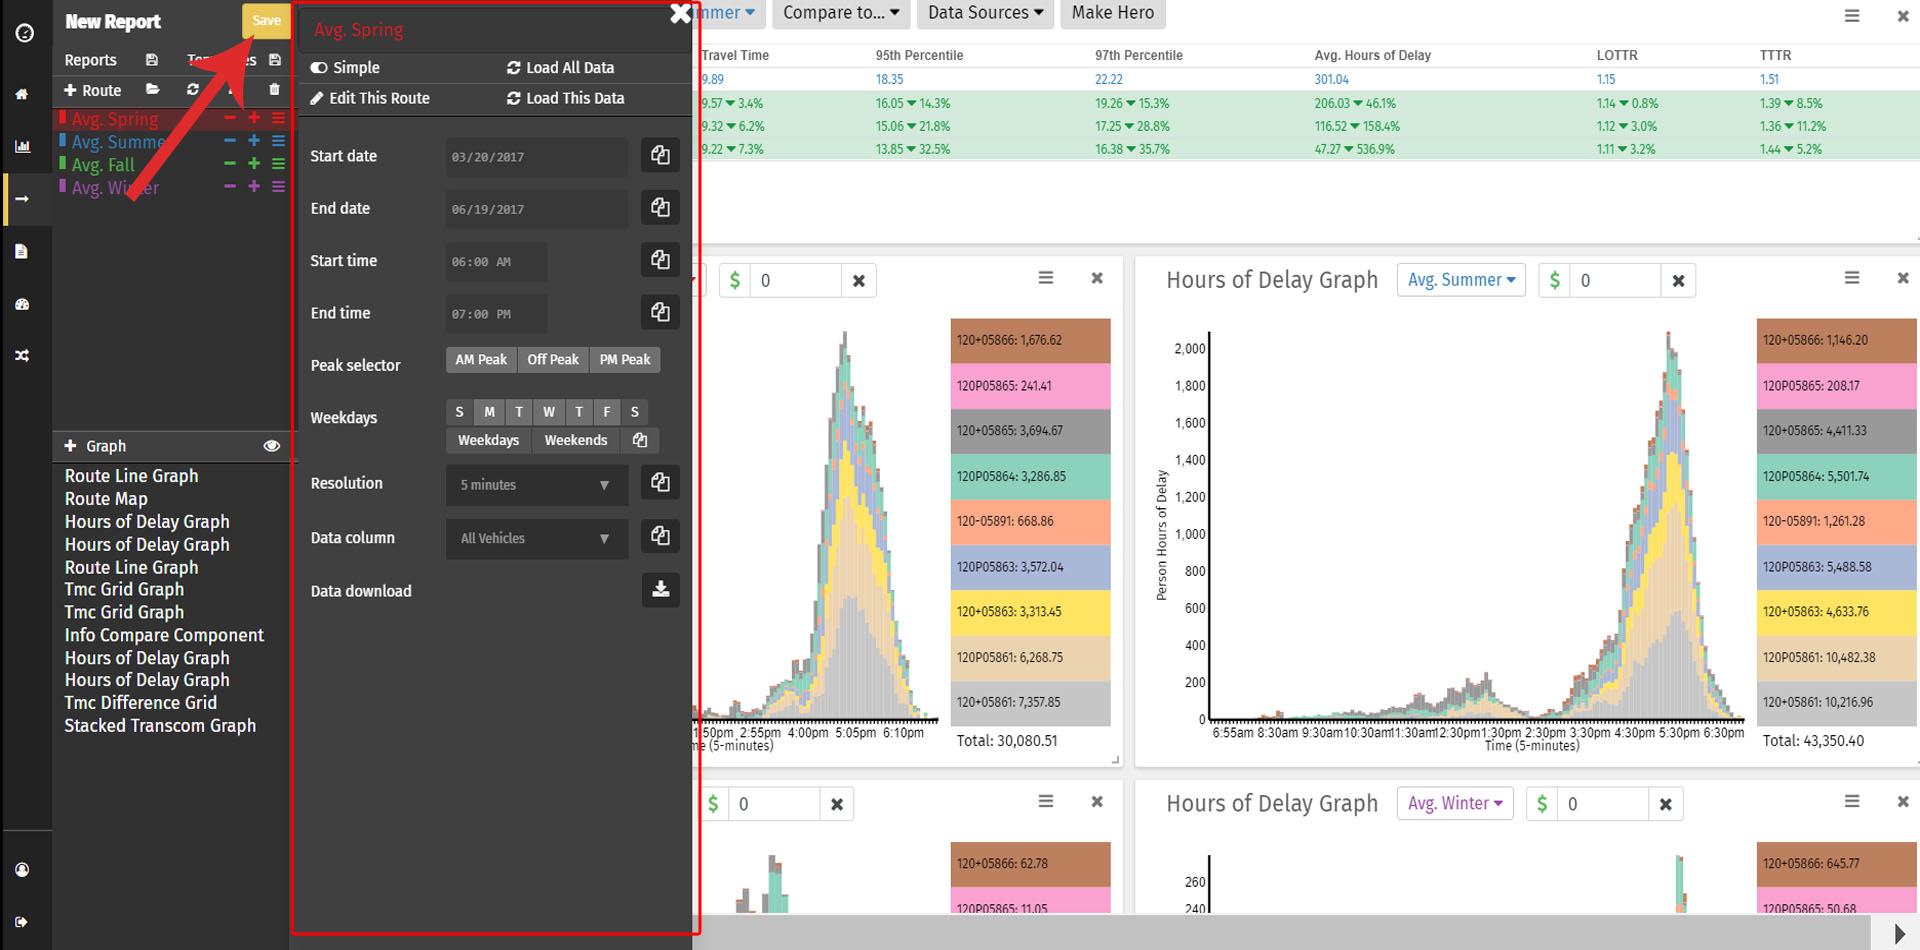
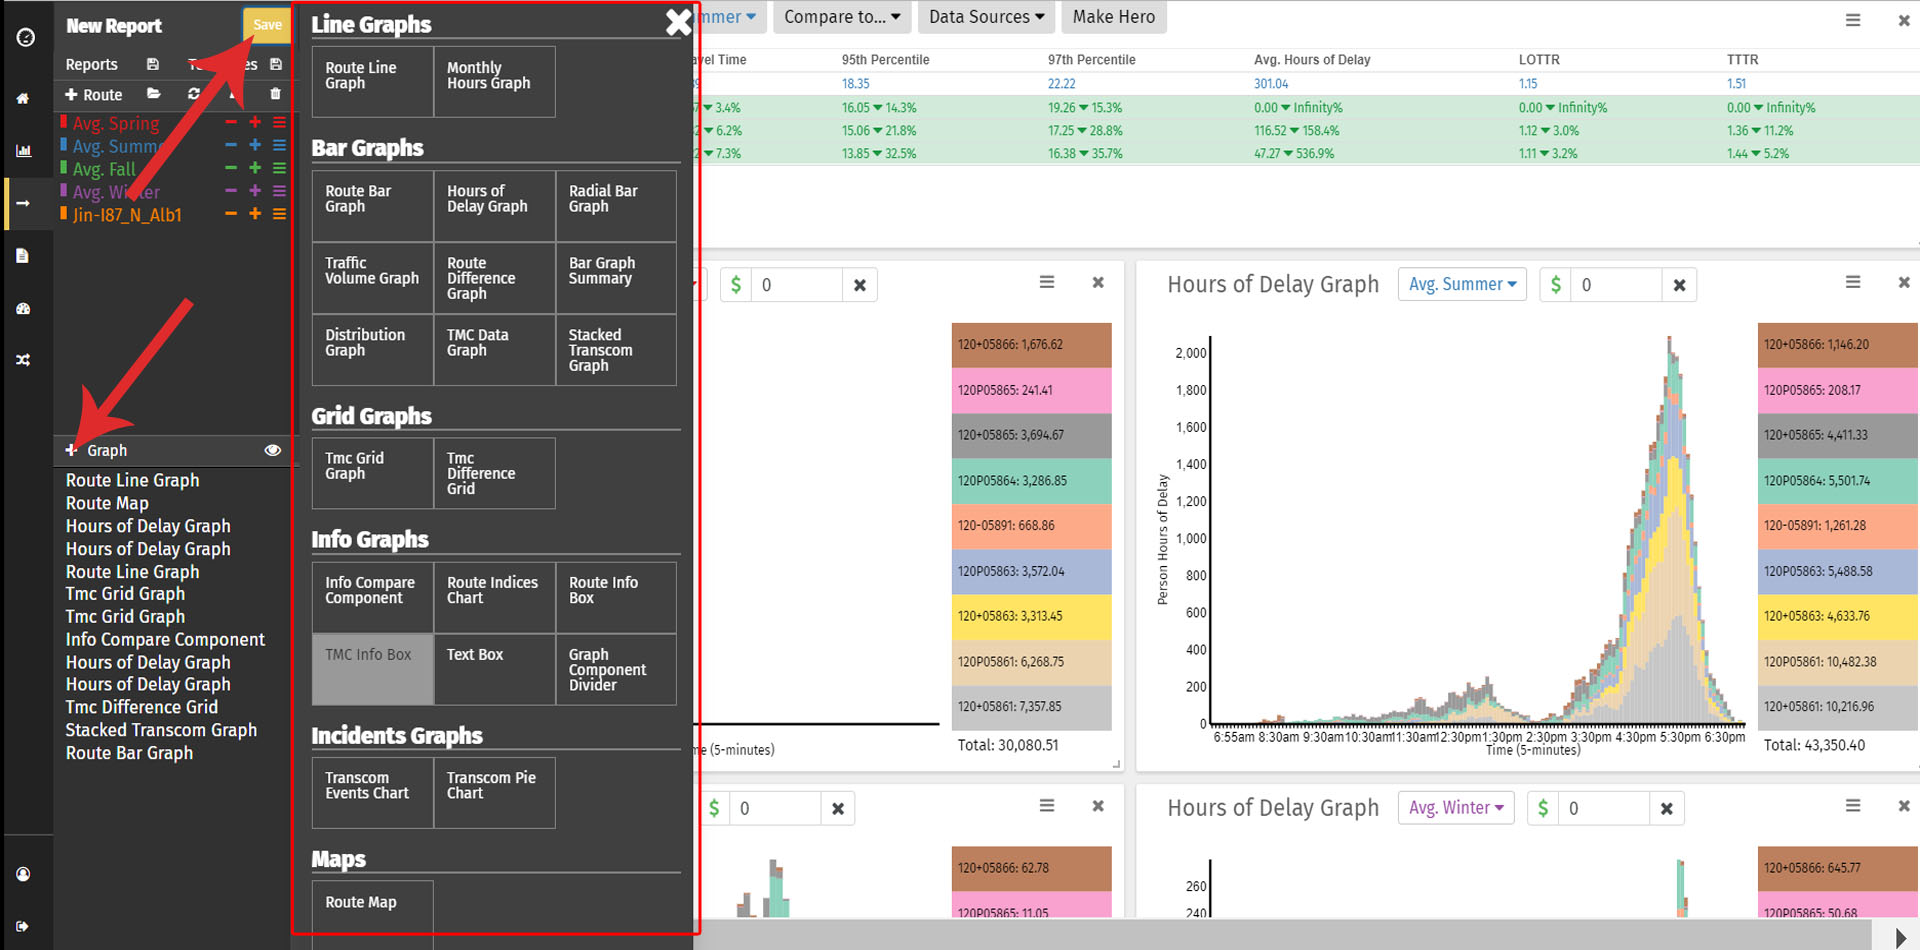
'jin_edit_guick_start_guide'

diff --git a/site/content/step/g7_s3.md b/site/content/step/g7_s3.md
@@ -17,12 +17,12 @@ Click on a Route Componenet in the left navigation menu to view the data paramet
 
 #### Image 2: Customize data/time and resolution 
  
-The “Advanced” tools (red box) for data parameters settings include detailed parameter settings for looking at almost any date/time bounds and time resolution. Choose different date by typing in or usinng calander in Start/End date, you can pick different Start/End time using Peak selectors. You can also choose weekdays or weekendns, resolutions of 5-min, 15-min, hour, day, weekday, month, and year, and Trucks, Passenger Vehicles, and All Vehicles. Lastly, you can download raw data from data datadownlad.
+The “Advanced” (red box) data parameters settings include detailed parameter settings for almost any date/time bounds and time resolution. Choose a different date by typing (or usinng calander) in Start/End date, picking a different Start/End time by using Peak selectors. You can also choose weekdays or weekendns, resolutions of 5-min, 15-min, hour, day, weekday, month, and year, and Trucks, Passenger Vehicles, and All Vehicles. Lastly, you can download raw data from data datadownload button.
 
-You can also copy and paste your route as a new layer by clicking + sign (red arrow) in a route layer. In this new layer you can open advanced tools again and change data parementers into different date/time for comparension into other time frame. For instance, average of each season vs average of a full year.
+You can also copy and paste your route as a new layer by clicking + sign (red arrow) in a route layer. In this new layer you can open advanced tools again and change data parementers to compare it into other time frame. For instance, average of each season vs average of a full year.
 
 
 #### Image 3: Add more graphs and save it to New Report
- Under + Graph, all graphs used for the template are listed. Click + Graph button (red arrow) and you can get Graphs tools window (red box). This will show all available Graphs aligned by Line Graphs, Bar Graphs, Grid Graphs, Info Graphs, Incidents Graphs, and Maps and you can add as many as graph tools into the current template by clicking each graph name. You can delete each graph by clicking x mark on right top on each graph.  Lastly, you can save your curstermiazed verion of template into your new report by clicking save button (red arrow) and put name and description of your report. Later you can find it from report section of NPMRDS. 
+ Under + Graph, all graphs used for the template are listed. Click + Graph button (red arrow) and you can get Graphs tools window (red box). This will show all available Graphs aligned by Line Graphs, Bar Graphs, Grid Graphs, Info Graphs, Incidents Graphs, and Maps and you can add as many as graph tools into the current template by clicking each graph name. You can delete each graph by clicking x mark on top right of each graph.  Lastly, you can save your curstermized verion of template into your new report by clicking save button (red arrow) and put a name and a description of your report. You can find your report from report section of NPMRDS's main menu. 
 
  If you want to learn more indepth for Data Parameter setting, click [**here**](https://npmrds.availabs.org/g/guide/data-params/) to see "Route Component Data Parameters Guide."

diff --git a/site/content/step/g7_s1.md b/site/content/step/g7_s1.md
@@ -14,10 +14,10 @@ image3: img/blog/quick-guide-1c.jpg
 Click Create A Custom Route button from Dashboard (Home) to open Route Creation Controls. 
 
 #### Image 2: Design Your Custom Route
- In Route Creation Controls, zoom in into the your road of interests and place two pins (start and end pin) using ctrl+left-click of your mouse. If road are two ways ( e.g. interstate highway), be careful on putting start and end pin following right direction of the road. You can also place additional pins customizing complex corridors. 
+ In Route Creation Controls, zoom in into the area where you can find your road of interests and place two pins (start and end pin) using ctrl+left-click of your mouse. If road are two ways ( e.g. interstate highway), be careful on putting start and end pin following right direction of the road. You can also place additional pins customizing complex corridors. 
  The TMC list on left menu allows you to view which TMCs are contained in your route. You can highlight the TMCs on the map by scrolling over the TMCs in the table, and remove TMCs by clicking on them in the table.
 
 #### Image 3: Name Your Route and Save
-Put down a name for your route and click Save Route button. It will pop up a message window of your successful saving and providing a button for the route comparison visualization tools. Click “Load RouteComponent” will lead you to the new window with the RouteComponent Template.
+Put down a name for your route and click Save Route button. A window will pop up with a message of successful saving and also provide a button for the route comparison visualization tools. Click “Load RouteComponent” will lead you to the new window with the RouteComponent Template.
 
 More indepth study for creating route, click [**here**](https://npmrds.availabs.org/g/guide/create-route/) to see "Create Route Guide."

diff --git a/site/content/step/g7_s2.md b/site/content/step/g7_s2.md
@@ -14,9 +14,9 @@ image3: img/blog/quick-guide-2c.jpg
 Click Template button from one of top left menu (red arrow) to open Full list of Templates. 
 
 #### Image 2: Choose a Template
- Template drop down button will list up all available templates from npmrds. If you place your cursor on each template's name, details description of each template will pop up as well. Choose a template of your choice by click a template name. 
+ Template drop down button will list up all available templates from npmrds. If you place your cursor on each template's name, a simple description of each template will pop up as well. Choose a template of your choice by click a template name. 
 
 #### Image 3: Navigate your Template
-Navigate each graph tools using browser's scroll bar and click hide/view button to open up road layer selected and macro/indices applied.  You can find immediate information about your route from this pre-designed template. Next step, you can modify this template to find more cutermized information of your route. 
+ Click hide/view button to open up road layer name selected and macro/indices applied. Next, navigate each graph tools using browser's scroll bar. From the pre-designed template, you can find immediate information of speed/travel time/hours of delay etc. with varying visualization graph tools, maticulously selected to fit on  each theme ( eg, Hours of delay on seasons, Monthly comparsion of days etc.) of the template. Next step, you can modify this template to find more cutermized information of your route. 
 
 If you want to find more details on how to choose and use Template, click [**here**](https://npmrds.availabs.org/g/guide/quick-template-hours-of-delay/) to see "Quick Template Guide." 

diff --git a/site/content/guide/guick-start-guide.md b/site/content/guide/guick-start-guide.md
@@ -2,7 +2,7 @@
 title: Quick Start Guide
 date: 2017-10-06T15:04:10.000Z
 description: >-
-  Do you need to develop a corridor analysis, trend reports of your route or corridor, or simply want to find best/worst time to travel. You can find those information as easy as 1, 2, 3 steps in NPMRDS. The first step is to create a route in Route creation tool. Second, you can apply it to pre-designed template based on each analysis theme. Lastly, you can modify the template to fit into more of your study needs.
+  Do you need to develop a corridor analysis, trend reports of your route or corridor, or simply want to find the best or worst time to travel. You can find those information as easy as 1, 2, 3 steps in NPMRDS. The first step is to create a route in Route creation tool. Second, you can apply it to pre-designed template based on each analysis theme. Lastly, you can modify the template to fit more into your study needs.
 image: img/blog/quick-guide1.jpg  
 guideNumber: 7
 ---
